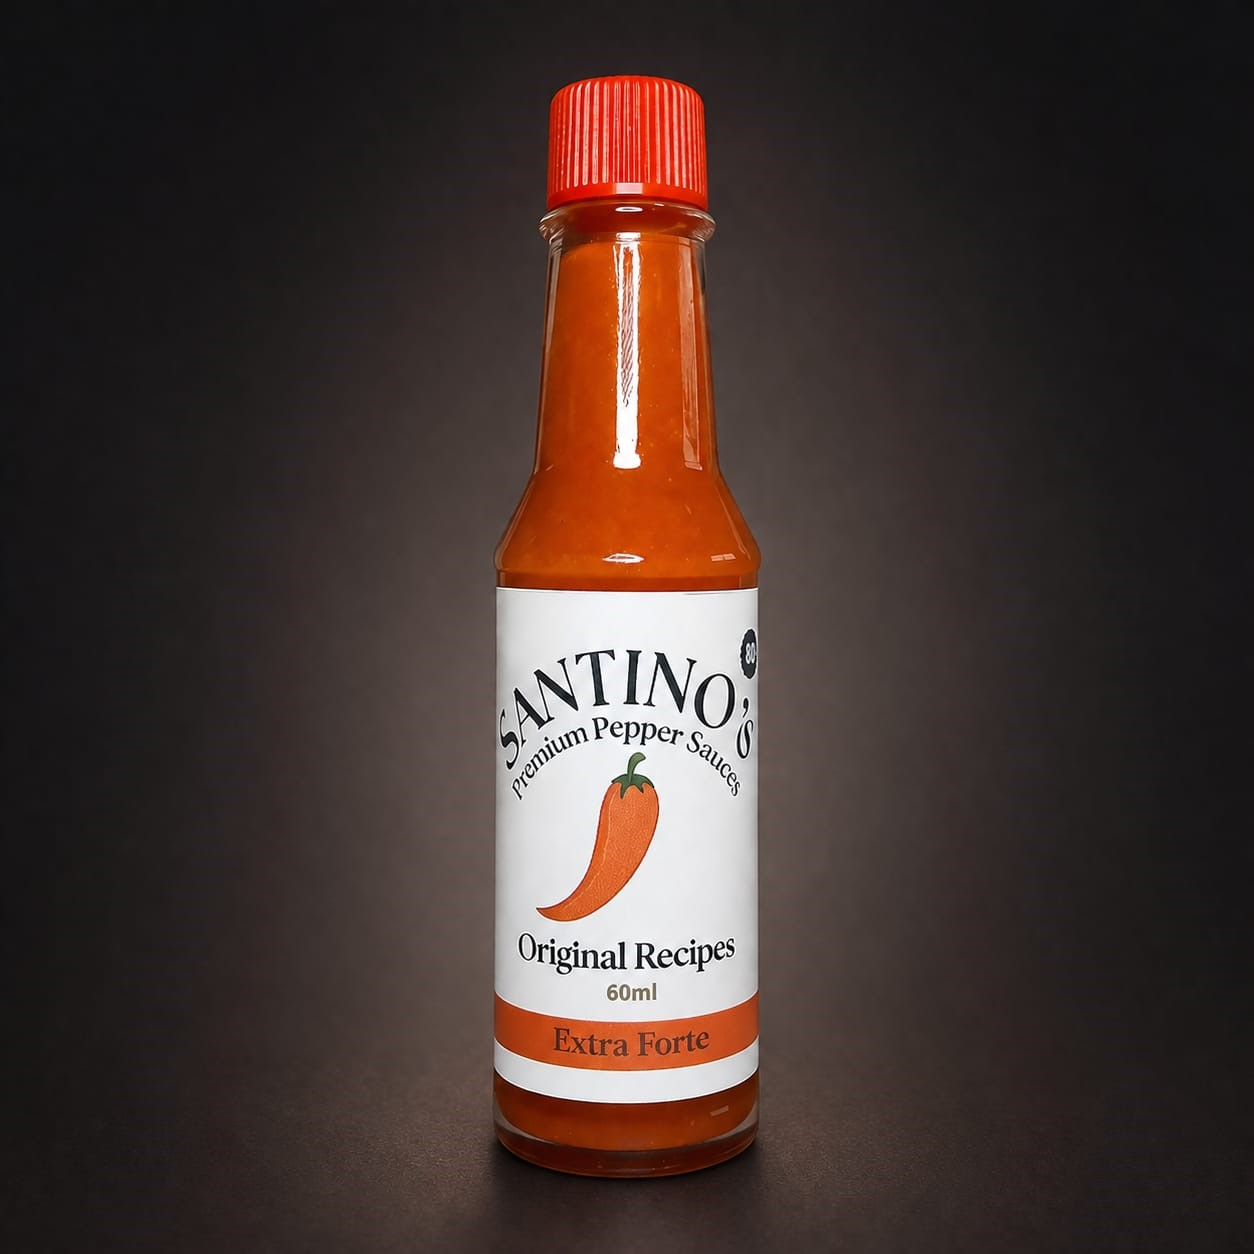
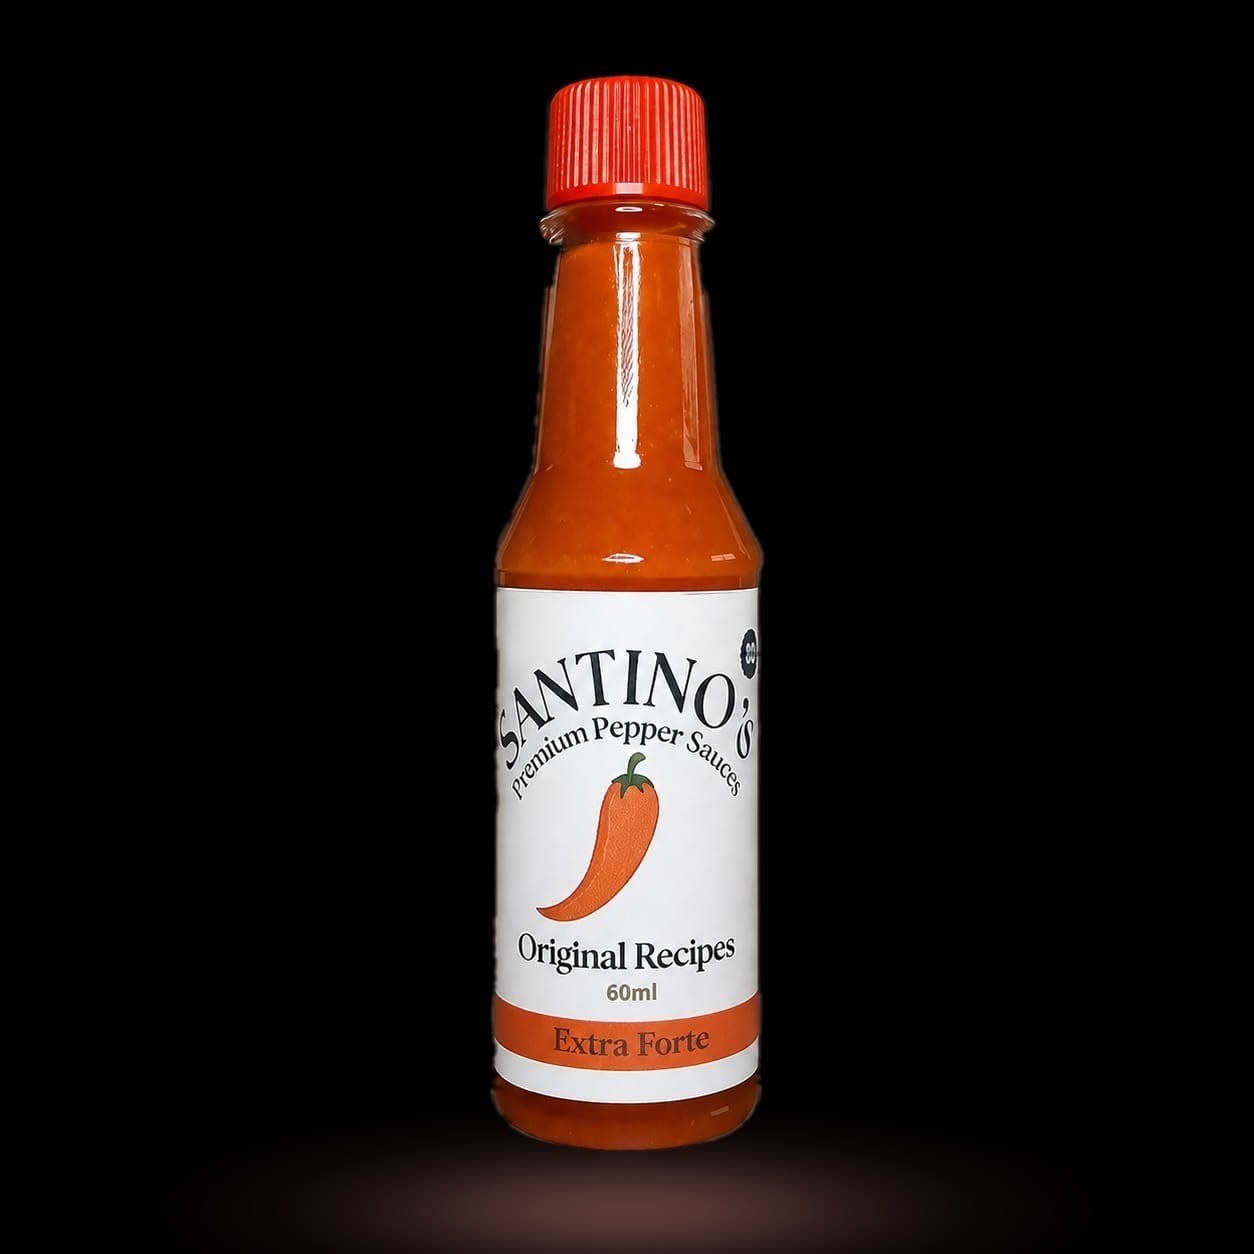
Preço fora do topo da home; fundo da foto do Extra Forte igual ao das outras

diff --git a/style.css b/style.css
@@ -198,12 +198,6 @@ a{ color: inherit; }
   margin: 0 0 32px;
 }
 .hero-actions{ display:flex; gap:14px; flex-wrap:wrap; }
-.hero-preco{
-  margin: 22px 0 0;
-  font-family: var(--mono); font-size: 13px; letter-spacing: 0.06em;
-  color: var(--bone-dim);
-}
-.hero-preco strong{ color: var(--bone); font-weight: 500; }
 
 /* Os três frascos: as fotos têm fundo escuro; "lighten" deixa aparecer o fundo do site
    onde a foto é mais escura que ele, então os frascos parecem soltos na página. */
@@ -232,7 +226,6 @@ a{ color: inherit; }
 .hero-frasco:nth-child(1){ transform: rotate(-6deg) translateY(4%); }
 .hero-frasco:nth-child(2){ width: 44%; z-index: 2; }
 .hero-frasco:nth-child(3){ transform: rotate(6deg) translateY(4%); }
-.hero-frasco:nth-child(3) img{ filter: brightness(0.82) contrast(1.18); } /* fundo dessa foto é mais claro */
 .hero-frasco:nth-child(2):hover{ transform: translateY(-3%); }
 .hero-frasco:nth-child(1):hover{ transform: rotate(-6deg) translateY(0); }
 .hero-frasco:nth-child(3):hover{ transform: rotate(6deg) translateY(0); }
@@ -512,7 +505,6 @@ section{ padding: 112px 0; }
   .hero-title{ font-size: clamp(68px, 21vw, 96px); margin-bottom: 18px; }
   .hero-tag{ font-size: 17px; margin-bottom: 24px; }
   .hero-actions .btn{ flex: 1; text-align:center; padding: 14px 16px; }
-  .hero-preco{ font-size: 12px; margin-top: 16px; }
   .beneficios ul{ grid-template-columns: 1fr 1fr; gap: 18px 14px; padding-top: 22px; padding-bottom: 22px; }
   .beneficios li{ align-items:flex-start; gap: 10px; }
   .beneficios svg{ width: 24px; height: 24px; }

diff --git a/index.html b/index.html
@@ -64,7 +64,6 @@
           <a href="#produtos" class="btn btn-primary">Ver os molhos</a>
           <a href="#historia" class="btn btn-ghost">Nossa história</a>
         </div>
-        <p class="hero-preco"><strong data-preco-de="suave">R$ 19,90</strong> cada · frasco de vidro de 60&nbsp;ml</p>
       </div>
       <div class="hero-frascos">
         <a class="hero-frasco" href="suave.html" aria-label="Santino's Suave"><img src="suave.jpg" alt="Frasco de Santino's Suave" width="1024" height="1024" fetchpriority="high"></a>

diff --git a/docs/contexto/historico/2026-10-01-preco-fora-do-topo-e-foto-extra-forte.md b/docs/contexto/historico/2026-10-01-preco-fora-do-topo-e-foto-extra-forte.md
@@ -1,0 +1,19 @@
+# 2026-10-01 — Preço fora do topo e fundo da foto do Extra Forte
+
+## Pedidos do Arnaldo (após ver o refino visual do PR #35)
+1. **Não mostrar o preço no topo da home.** Removida a linha "R$ 19,90 cada · frasco de vidro de 60 ml" do hero (`index.html`) e o CSS `.hero-preco`.
+   O preço continua nos cards de produto, nas páginas de produto e no carrinho. (Com isso some o risco anotado no PR #35 sobre "cada" com preços diferentes.)
+2. **Fundo da foto do Extra Forte diferente das outras** ("erro meu", disse ele — a foto foi produzida com fundo cinza-amarronzado, as do Suave e Defumado são pretas
+   com uma luz quente no chão). Corrigido no **próprio arquivo** `extra-forte.jpg` (vale para home, página do produto, carrinho, catálogo do Meta, prévia de link):
+   - detecção do frasco (vermelho saturado ou claro) → maior região conectada → silhueta preenchida por linha + 2 px, borda suavizada;
+   - tudo fora da silhueta vira preto puro, e foi acrescentada uma luz quente no chão sob o frasco, como nas outras duas fotos;
+   - mesmo tamanho (1254×1254) e enquadramento. O original fica no histórico do git (commit anterior a este PR).
+   - Script usado (PowerShell + C#) ficou fora do repo; se precisar repetir com outra foto, pedir ao Claude.
+- Removido o `filter: brightness/contrast` que disfarçava essa foto no topo da home; `og-image.jpg` regerada com a foto nova.
+
+## Atenção
+- O catálogo do Meta (`catalogo.csv`) aponta para `extra-forte.jpg`; o Meta atualiza a imagem na próxima leitura do feed (diária).
+- Se o Arnaldo trocar a foto por uma nova sessão de fotos, manter **fundo preto** para combinar com as outras.
+
+## Como reverter
+`git revert` do PR (volta a foto e a linha de preço).

diff --git a/docs/contexto/00-LEIA-PRIMEIRO.md b/docs/contexto/00-LEIA-PRIMEIRO.md
@@ -113,6 +113,7 @@ Conta de anúncios Meta: `920054342570415` (conjunto de dados/Pixel "Santinos").
 
 - `vercel.json` aplica CSP e demais cabeçalhos. **Se adicionar serviço externo novo (script, fonte, API, iframe), liberar o domínio na CSP** ou ele será bloqueado.
   O Meta Pixel precisa de `www.facebook.com` em `form-action` e `frame-src` (corrigido em 2026-10-01; antes parte dos eventos era bloqueada).
+- Fotos de produto: **fundo preto com luz quente no chão** (as três iguais desde 2026-10-01). Foto nova deve seguir o padrão.
 - Visual da home (2026-10-01): frascos no topo usam `mix-blend-mode: lighten` — o `.hero` precisa ter fundo próprio. Ver `historico/2026-10-01-refino-visual-da-home.md`.
 - Favicon: `favicon.ico`/`favicon-*.png`/`apple-touch-icon.png` na raiz, gerados a partir da pimenta do `logo.png` (ver `historico/2026-09-25-favicon.md`).
 - `.vercelignore` mantém `docs/` e `worker/` fora do site público.
@@ -159,6 +160,7 @@ Conta de anúncios Meta: `920054342570415` (conjunto de dados/Pixel "Santinos").
 | #33 | 25/09 | Título da seção de avaliações ("Avaliações de quem já comprou:"); estado vazio só com o título |
 | #34 | 25/09 | Contexto: avaliações confirmadas em produção |
 | #35 | 01/10 | Refino visual da home (frascos no topo, benefícios, história, cards, contato, prévia de link) + Pixel liberado na CSP |
+| #36 | 01/10 | Preço fora do topo da home; fundo da foto do Extra Forte escurecido para combinar com as outras |
 | #31 | 25/09 | Favicon (pimenta do logo) em todas as páginas |
 
 Notas detalhadas por alteração: pasta [`historico/`](historico/) (a partir de 2026-09-24).
